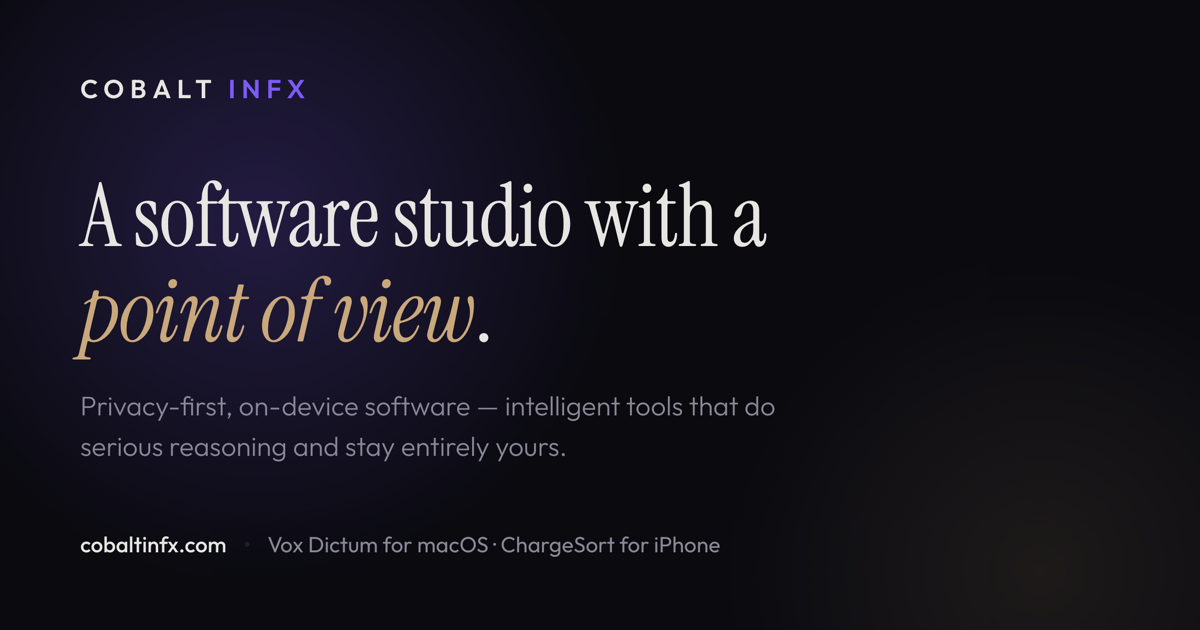
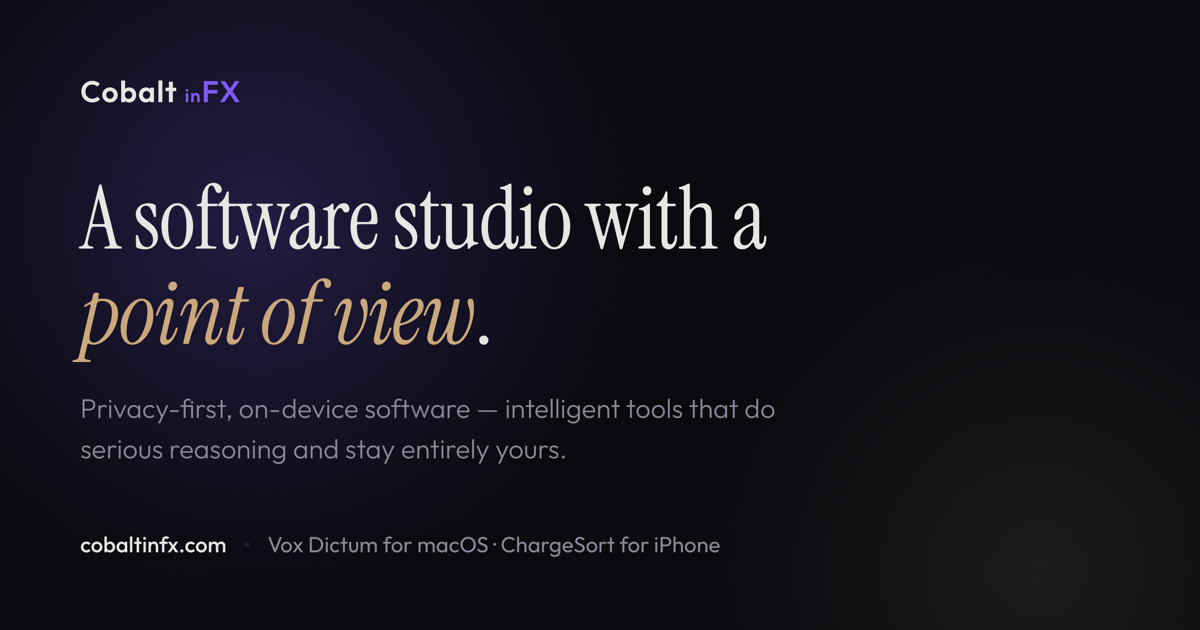
Restyle wordmark to "Cobalt inFX" (nav + share card)
Logo now reads "Cobalt inFX": "Cobalt" and "FX" at full size, "in"
smaller, with "inFX" in the accent colour. Applied to the nav on all
pages (home, thinking, writing) and regenerated og-cover.png to match.

diff --git a/thinking/index.html b/thinking/index.html
@@ -68,14 +68,15 @@
   }
   nav .logo {
     font-family: 'Outfit', sans-serif;
-    font-size: 16px;
+    font-size: 17px;
     font-weight: 600;
     color: var(--text);
     text-decoration: none;
-    letter-spacing: 2px;
-    text-transform: uppercase;
+    letter-spacing: 0.5px;
+    text-transform: none;
   }
   nav .logo span { color: var(--accent); }
+  nav .logo .mk-in { font-size: 0.62em; }
   nav .nav-links { display: flex; gap: 28px; list-style: none; }
   nav .nav-links a {
     color: var(--text-secondary);
@@ -233,7 +234,7 @@
   <!-- NAV — existing links unchanged; "The thinking" added as current page -->
   <nav>
     <div class="inner">
-      <a href="/" class="logo">COBALT <span>INFX</span></a>
+      <a href="/" class="logo">Cobalt <span class="mk"><span class="mk-in">in</span>FX</span></a>
       <ul class="nav-links">
         <li><a href="/">About</a></li>
         <li><a href="/#products">Products</a></li>

diff --git a/writing/index.html b/writing/index.html
@@ -68,14 +68,15 @@
   }
   nav .logo {
     font-family: 'Outfit', sans-serif;
-    font-size: 16px;
+    font-size: 17px;
     font-weight: 600;
     color: var(--text);
     text-decoration: none;
-    letter-spacing: 2px;
-    text-transform: uppercase;
+    letter-spacing: 0.5px;
+    text-transform: none;
   }
   nav .logo span { color: var(--accent); }
+  nav .logo .mk-in { font-size: 0.62em; }
   nav .nav-links { display: flex; gap: 28px; list-style: none; }
   nav .nav-links a {
     color: var(--text-secondary);
@@ -259,7 +260,7 @@
   <!-- NAV -->
   <nav>
     <div class="inner">
-      <a href="/" class="logo">COBALT <span>INFX</span></a>
+      <a href="/" class="logo">Cobalt <span class="mk"><span class="mk-in">in</span>FX</span></a>
       <ul class="nav-links">
         <li><a href="/">About</a></li>
         <li><a href="/#products">Products</a></li>

diff --git a/index.html b/index.html
@@ -137,15 +137,16 @@
 
   nav .logo {
     font-family: 'Outfit', sans-serif;
-    font-size: 16px;
+    font-size: 17px;
     font-weight: 600;
     color: var(--text);
     text-decoration: none;
-    letter-spacing: 2px;
-    text-transform: uppercase;
+    letter-spacing: 0.5px;
+    text-transform: none;
   }
 
   nav .logo span { color: var(--accent); }
+  nav .logo .mk-in { font-size: 0.62em; }
 
   nav .nav-links {
     display: flex;
@@ -818,7 +819,7 @@
 <!-- ─── NAV ─── -->
 <nav>
   <div class="inner">
-    <a href="#home" class="logo">COBALT <span>INFX</span></a>
+    <a href="#home" class="logo">Cobalt <span class="mk"><span class="mk-in">in</span>FX</span></a>
     <ul class="nav-links">
       <li><a href="#home">About</a></li>
       <li><a href="#products">Products</a></li>
